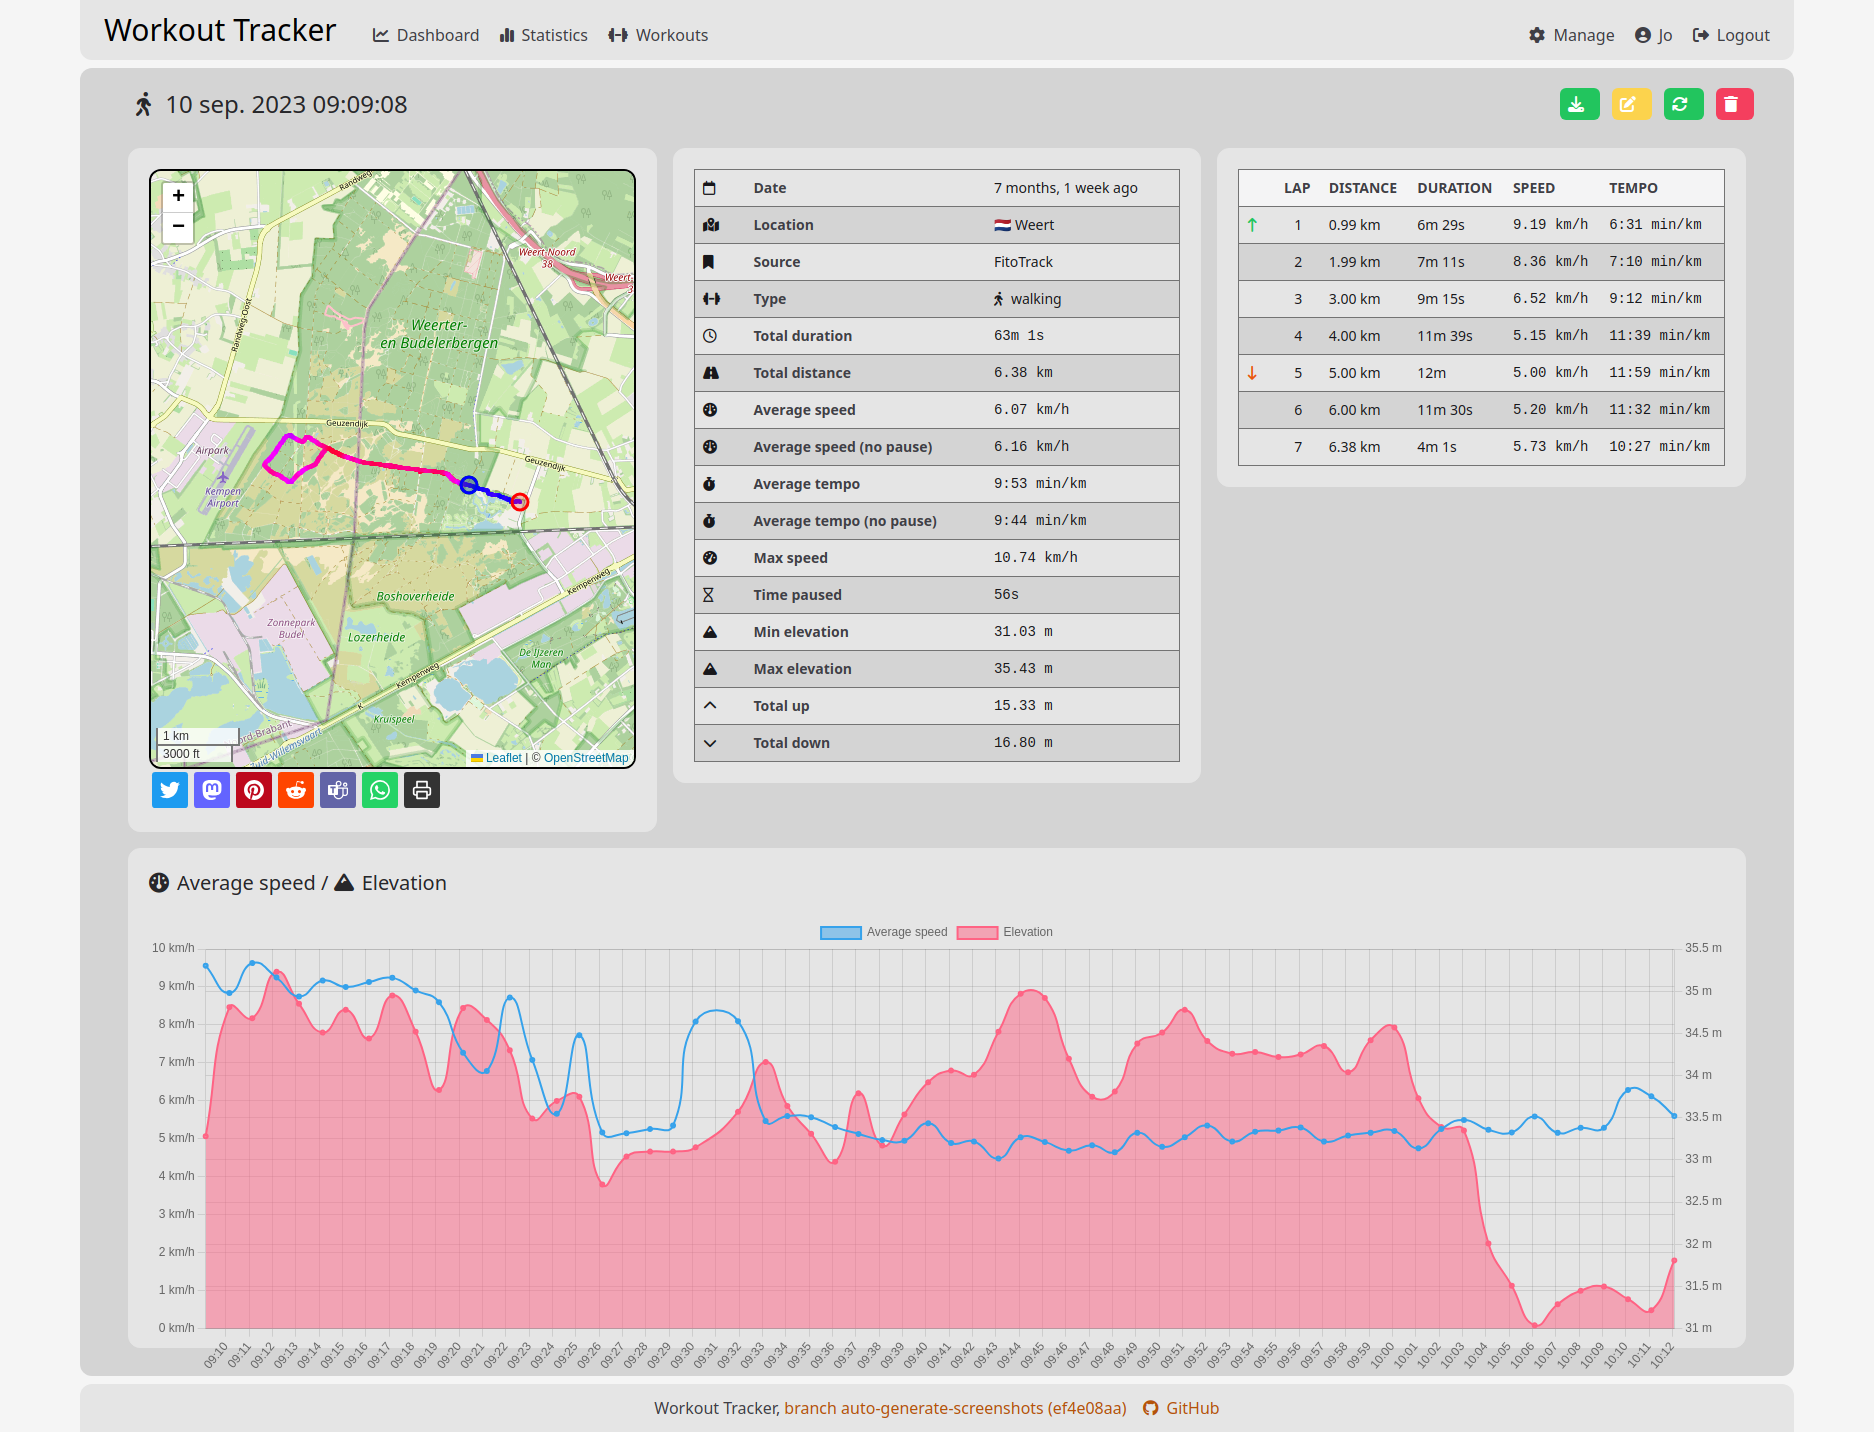
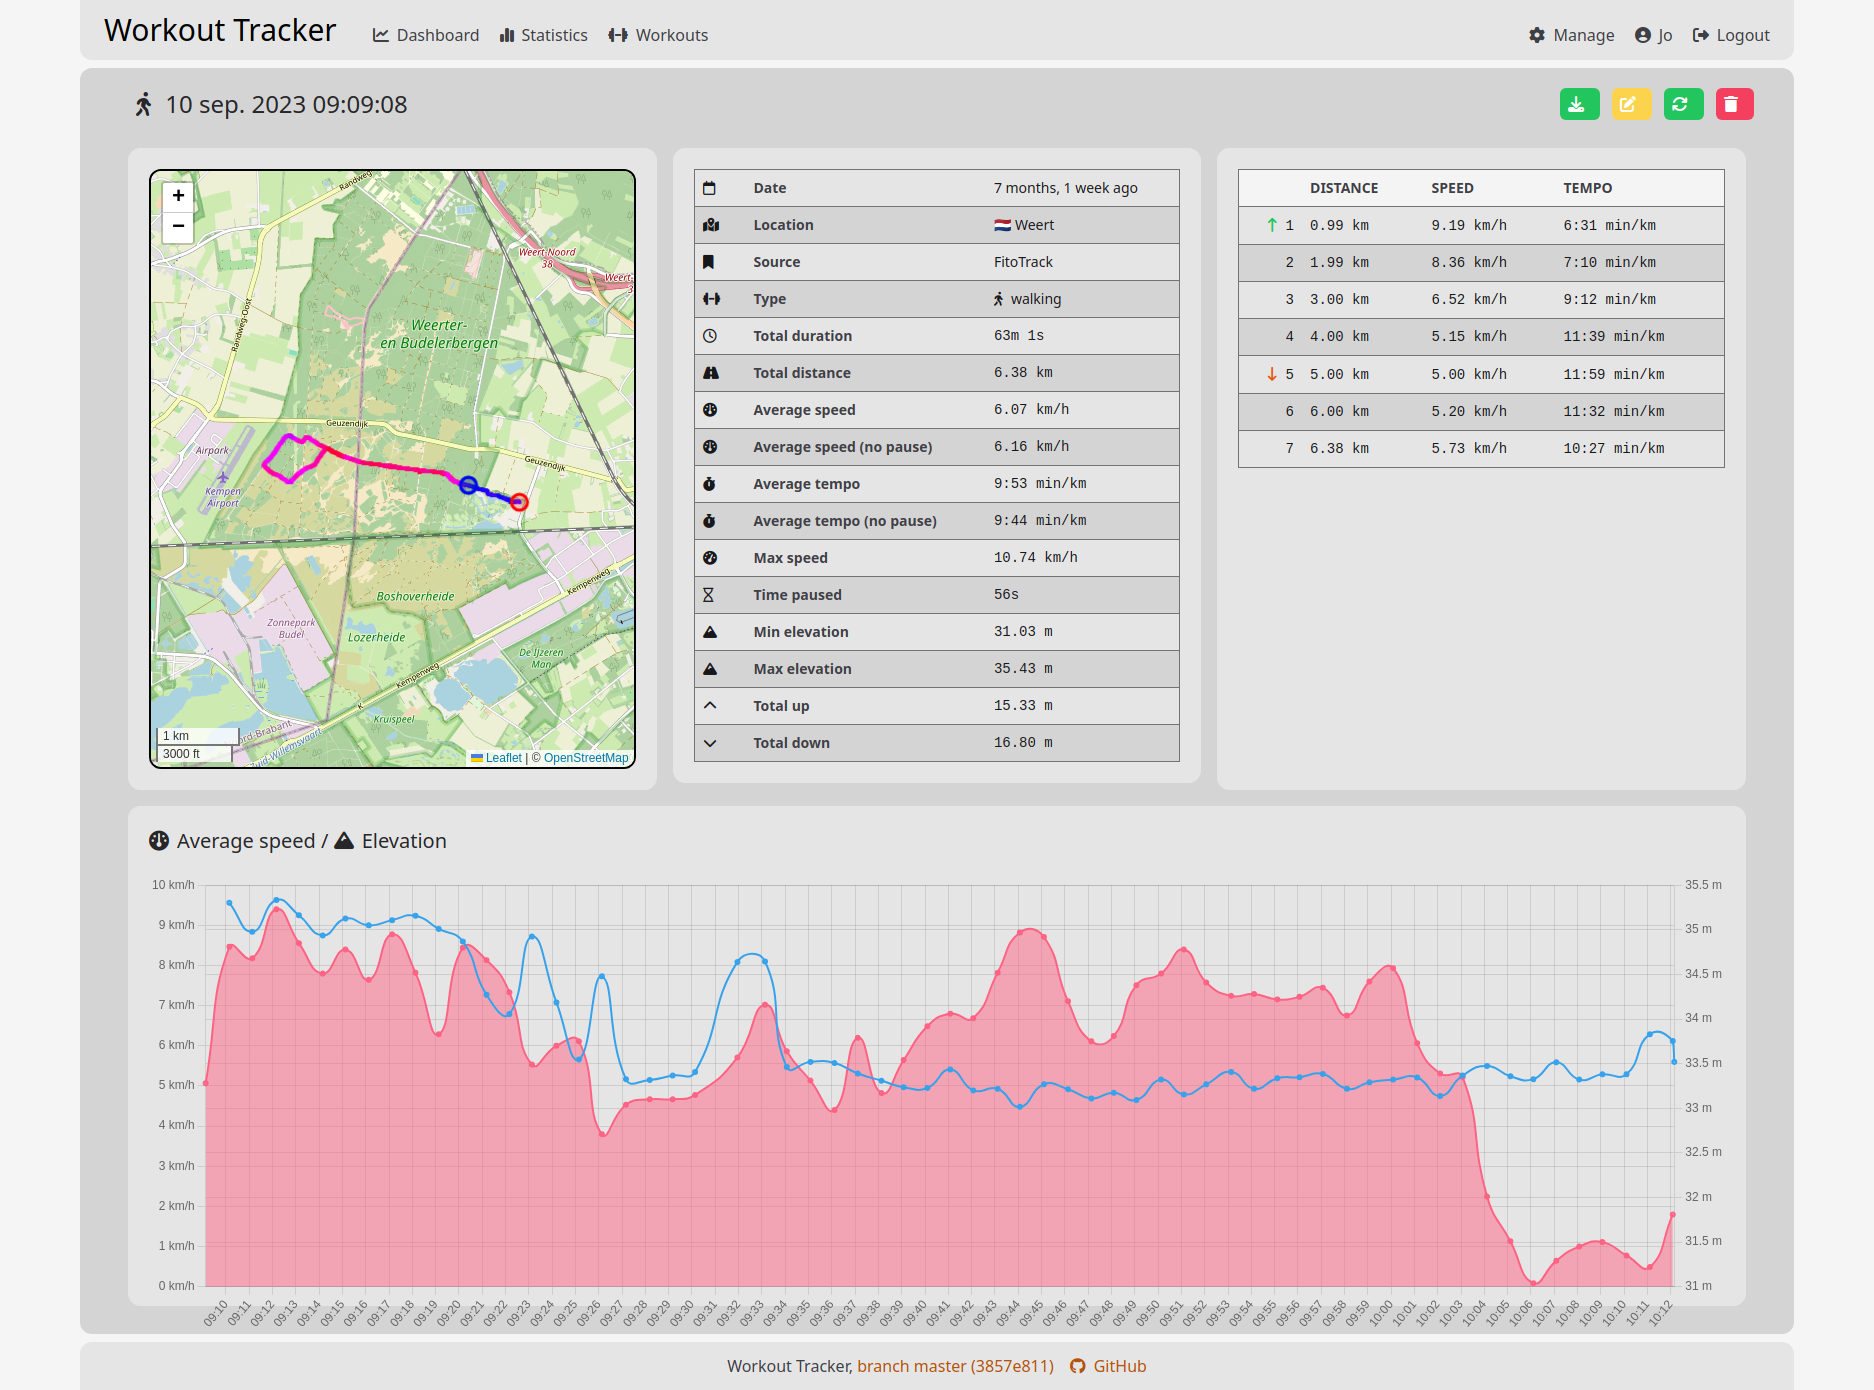
Improve responsive design of workout breakdown
Update screenshots, README

diff --git a/views/partials/workout_breakdown.html b/views/partials/workout_breakdown.html
@@ -3,14 +3,13 @@
   <thead>
     <tr>
       <th></th>
-      <th>{{ i18n "Lap" }}</th>
       <th>{{ i18n "Distance" }}</th>
-      <th>{{ i18n "Duration" }}</th>
+      <th class="lg:hidden 3xl:table-cell">{{ i18n "Duration" }}</th>
       <th>{{ i18n "Speed" }}</th>
       <th>{{ i18n "Tempo" }}</th>
     </tr>
   </thead>
-  <tbody>
+  <tbody class="whitespace-nowrap font-mono">
     {{ range .Items }}
     <tr
       {{
@@ -23,24 +22,22 @@
       }}
       onmouseout="clear_marker()"
     >
-      <td>
-        {{ if .IsWorst }}
-        <span class="text-orange-600 {{ IconFor `worst` }}"></span>{{ end }} {{
-        if .IsBest }}
-        <span class="text-green-500 {{ IconFor `best` }}"></span>{{ end }}
+      <td class="text-right">
+        {{- if .IsWorst -}}
+        <span class="text-orange-600 {{ IconFor `worst` }}"></span>
+        {{- end -}} {{- if .IsBest -}}
+        <span class="text-green-500 {{ IconFor `best` }}"></span>
+        {{- end -}} {{ .Counter }}
       </td>
-      <td class="text-center">{{ .Counter }}</td>
       <td>
         {{ .TotalDistance | HumanDistance }} {{
         CurrentUser.PreferredUnits.Distance }}
       </td>
-      <td>{{ .Duration | HumanDuration }}</td>
-      <td class="whitespace-nowrap font-mono">
-        {{ .Speed | HumanSpeed }} {{ CurrentUser.PreferredUnits.Speed }}
+      <td class="lg:hidden 3xl:table-cell">
+        {{ .TotalDuration | HumanDuration }}
       </td>
-      <td class="whitespace-nowrap font-mono">
-        {{ .Speed | HumanTempo }} {{ CurrentUser.PreferredUnits.Tempo }}
-      </td>
+      <td>{{ .Speed | HumanSpeed }} {{ CurrentUser.PreferredUnits.Speed }}</td>
+      <td>{{ .Speed | HumanTempo }} {{ CurrentUser.PreferredUnits.Tempo }}</td>
     </tr>
     {{ end }}
   </tbody>

diff --git a/views/workouts/workouts_show.html b/views/workouts/workouts_show.html
@@ -31,8 +31,8 @@
           {{ .Name }} {{ with .Filename }}({{ . }}){{ end }}
         </h2>
       </div>
-      <div class="sm:flex sm:flex-wrap print:block">
-        <div class="basis-1/3 pagebreak">
+      <div class="lg:flex lg:flex-wrap print:block">
+        <div class="basis-1/2 2xl:basis-1/3 pagebreak">
           <div class="inner-form">
             <div
               id="map"
@@ -57,13 +57,17 @@
             .}} {{ end }}
           </div>
         </div>
-        <div class="basis-1/3">
+        <div class="basis-1/2 2xl:basis-1/3">
           <div class="inner-form">{{ template "workout_details" . }}</div>
         </div>
-        <div class="basis-1/3">
+        <div class="basis-1/2 2xl:basis-1/3">
           <div class="inner-form">
-            {{ template "workout_breakdown" (.StatisticsPer 1
-            CurrentUser.PreferredUnits.Distance) }}
+            <div
+              class="h-[400px] xl:h-[600px] print:w-full print:h-[600px] overflow-y-auto"
+            >
+              {{ template "workout_breakdown" (.StatisticsPer 1
+              CurrentUser.PreferredUnits.Distance) }}
+            </div>
           </div>
         </div>
       </div>

diff --git a/assets/output.css b/assets/output.css
@@ -1819,6 +1819,10 @@ table {
   height: 300px;
 }
 
+.h-\[400px\] {
+  height: 400px;
+}
+
 .min-h-\[450px\] {
   min-height: 450px;
 }
@@ -1833,10 +1837,6 @@ table {
 
 .basis-1\/2 {
   flex-basis: 50%;
-}
-
-.basis-1\/3 {
-  flex-basis: 33.333333%;
 }
 
 .basis-1\/4 {
@@ -1919,6 +1919,10 @@ table {
 
 .overflow-hidden {
   overflow: hidden;
+}
+
+.overflow-y-auto {
+  overflow-y: auto;
 }
 
 .overflow-y-hidden {
@@ -2820,6 +2824,10 @@ table {
   .xl\:hidden {
     display: none;
   }
+
+  .xl\:h-\[600px\] {
+    height: 600px;
+  }
 }
 
 @media (min-width: 1536px) {
@@ -2833,6 +2841,10 @@ table {
 
   .\32xl\:hidden {
     display: none;
+  }
+
+  .\32xl\:basis-1\/3 {
+    flex-basis: 33.333333%;
   }
 }
 

diff --git a/screenshots.js b/screenshots.js
@@ -81,7 +81,7 @@ export default async function () {
 
     // Create screenshots for responsive view
     page.setViewportSize({
-      width: 400,
+      width: 600,
       height: 2000,
     });
     page.emulateMedia({

diff --git a/README.md b/README.md
@@ -1,5 +1,5 @@
-A workout tracking web application for personal use (or family, friends), geared towards running and other GPX-based
-activities
+A workout tracking web application for personal use (or family, friends), geared
+towards running and other GPX-based activities
 
 Self-hosted, everything included.
 
@@ -9,7 +9,8 @@ Heavily inspired by [FitTrackee](https://github.com/SamR1/FitTrackee) :heart:.
 
 ### Docker
 
-Run the latest master image from GitHub Container Registry (master and release images are available for amd64 and arm64):
+Run the latest master image from GitHub Container Registry (master and release
+images are available for amd64 and arm64):
 
 ```bash
 # Latest master build
@@ -51,7 +52,9 @@ docker compose up -d
 
 ### Natively
 
-Download a [pre-built binary](https://github.com/jovandeginste/workout-tracker/releases) or build it yourself (see [Development](#development) below).
+Download a [pre-built
+binary](https://github.com/jovandeginste/workout-tracker/releases) or build it
+yourself (see [Development](#development) below).
 
 Eg. for v0.11.3 on Linux x86_64:
 
@@ -68,13 +71,15 @@ export WT_JWT_ENCRYPTION_KEY=my-secret-key
 ./workout-tracker
 ```
 
-This will create a new database file in the current directory and start the web server at `http://localhost:8080`.
+This will create a new database file in the current directory and start the web
+server at `http://localhost:8080`.
 
 ## Screenshots
 
 ### Login page
 
 ![](docs/login.png)
+
 Login / registration form
 
 - new users have to be activated by an admin
@@ -83,6 +88,7 @@ Login / registration form
 ### Dashboard
 
 ![](docs/dashboard.png)
+
 Dashboard view with:
 
 - personal totals
@@ -93,17 +99,20 @@ Dashboard view with:
 ### Overview of workouts
 
 ![](docs/workout_overview.png)
+
 Overview of all your activities, with summaries. The columns are sortable.
 
 ### Details of a single workout
 
 ![](docs/single_workout-dark.png)
+
 Details of a workout, with:
 
 - a zoomable, dragable map of the GPX track with more details per point
 - many summarized statistics
-- a breakdown per kilometer
+- a breakdown per kilometer or per mile
 - track color based on elevation of the segment
+- graph of average speed and elevation per minute
 
 ### Tooltips for even more information
 
@@ -118,8 +127,10 @@ Details of a workout, with:
 ![](docs/upload_workouts.png)
 
 - Upload one or multiple GPX files.
-- Pick the type (running, cycling, ...) or let the application guess based on average speed
-- The files are parsed when uploaded: statistics and other information are calculated and stored in the database (serialized).
+- Pick the type (running, cycling, ...) or let the application guess based on
+  average speed
+- The files are parsed when uploaded: statistics and other information are
+  calculated and stored in the database (serialized).
 
 ### Statistics to follow your progress
 
@@ -150,9 +161,11 @@ Details of a workout, with:
 
 ## Configuration
 
-The web server looks for a file `workout-tracker.yaml` (or `json` or `toml`) in the current directory, or takes it's
-configuration from environment variables. The most important variable is the JWT encryption key. If you don't provide
-it, the key is randomly generated every time the server starts, invalidating all current sessions.
+The web server looks for a file `workout-tracker.yaml` (or `json` or `toml`) in
+the current directory, or takes it's configuration from environment variables.
+The most important variable is the JWT encryption key. If you don't provide it,
+the key is randomly generated every time the server starts, invalidating all
+current sessions.
 
 Generate a secure key and write it to `workout-tracker.yaml`:
 
@@ -180,10 +193,12 @@ WT_REGISTRATION_DISABLED="false"
 WT_SOCIALS_DISABLED="false"
 ```
 
-After starting the server, you can access it at <http://localhost:8080> (the default port). A login form is shown.
+After starting the server, you can access it at <http://localhost:8080> (the
+default port). A login form is shown.
 
-If no users are in the database (eg. when starting with an empty database), a default `admin` user is created with
-password `admin`. You should change this password in a production environment.
+If no users are in the database (eg. when starting with an empty database), a
+default `admin` user is created with password `admin`. You should change this
+password in a production environment.
 
 ## Development
 
@@ -197,7 +212,8 @@ go build ./
 ./workout-tracker
 ```
 
-This does not require npm or Tailwind, since the compiled css is included in the repository.
+This does not require npm or Tailwind, since the compiled css is included in the
+repository.
 
 ### Do some development
 
@@ -235,10 +251,12 @@ make clean # Removes build artifacts
 
 A single binary that runs on any platform, with no dependencies.
 
-The binary contains all assets to serve a web interface, through which you can upload your GPX files, visualize
-your tracks and see their statistics and graphs. The web application is multi-user, with a simple registration and
-authentication form, session cookies and JWT tokens). New accounts are inactive by default. An admin user can activate
-(or edit, delete) accounts. The default database storage is a single SQLite file.
+The binary contains all assets to serve a web interface, through which you can
+upload your GPX files, visualize your tracks and see their statistics and
+graphs. The web application is multi-user, with a simple registration and
+authentication form, session cookies and JWT tokens). New accounts are inactive
+by default. An admin user can activate (or edit, delete) accounts. The default
+database storage is a single SQLite file.
 
 ## What technologies are used
 
@@ -256,12 +274,13 @@ authentication form, session cookies and JWT tokens). New accounts are inactive 
   - [Chart.js](https://cdn.jsdelivr.net/npm/chart.js)
 - Docker
 
-The application uses OpenStreetMap as its map provider and for geocoding a GPS coordinate to a location.
+The application uses OpenStreetMap as its map provider and for geocoding a GPS
+coordinate to a location.
 
 ## Compatiblity
 
-This is a work in progress. If you find any problems, please let us know. The application is tested with GPX files from
-these sources:
+This is a work in progress. If you find any problems, please let us know. The
+application is tested with GPX files from these sources:
 
 - Garmin Connect (export to GPX)
 - FitoTrack (automatic export to GPX)
@@ -276,7 +295,8 @@ these sources:
   - added support for MySQL, but untested so far
   - added support for Postgres by @icewind1991
 - add support for other types of import files (eg. Garmin fit files)
-  - importing fit files works, kinda: there seems to be an issue with the elevation
+  - importing fit files works, kinda: there seems to be an issue with the
+    elevation
   - see https://github.com/tormoder/fit/issues/87
   - https://www.fitfileviewer.com/ gives the same elevation issue
 - see if htmx is worth using
